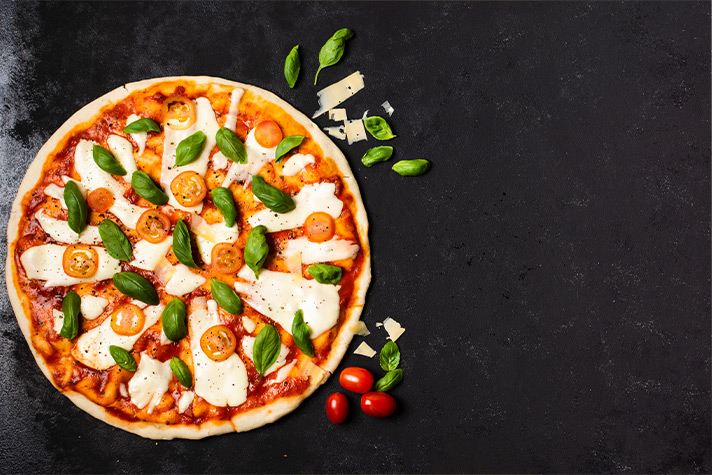
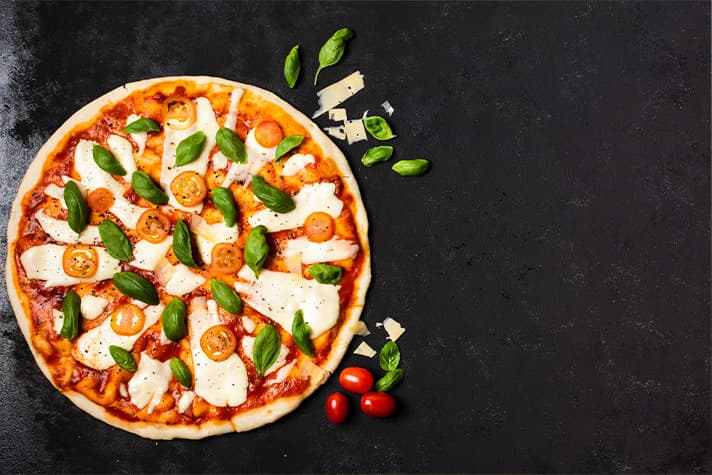
Compressed the images

diff --git a/style.css b/style.css
@@ -21,7 +21,7 @@ body{
 .header{
 	height:  960px;
 
-	background: url('img/headerbg.png') no-repeat center top / cover;
+	background: url('img/headerbg.jpg') no-repeat center top / cover;
 }
 
 header a{
@@ -230,7 +230,7 @@ header a{
 
 /*	Блок 4 */
 .block4{
-    background: url('img/background-block4.png') no-repeat center top / cover;
+    background: url('img/background-block4.jpg') no-repeat center top / cover;
     height: 1355px;	
     z-index: 0;
 }
@@ -461,7 +461,7 @@ header a{
 	display: flex;
 	justify-content: right;
 
-	background: url('img/masterclass.png') no-repeat center top / cover;
+	background: url('img/masterclass.jpg') no-repeat center top / cover;
 
 	height:  1210px;
 }

diff --git a/index.html b/index.html
@@ -62,7 +62,7 @@
 			<div class="titletext">
 				new format
 			</div>
-			<img class="imgpiz" src="img/pizza.png" alt="pizza">
+			<img class="imgpiz" src="img/pizza.jpg" alt="pizza">
 		</section>
 
 		<!-- Третий блок  -->
